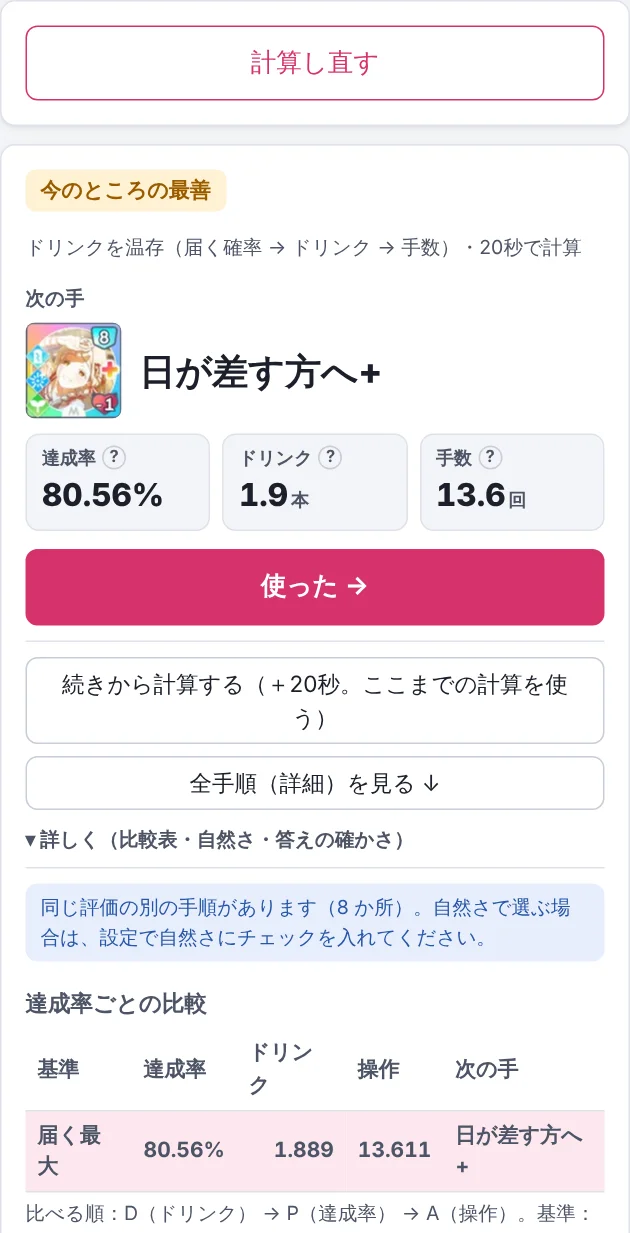
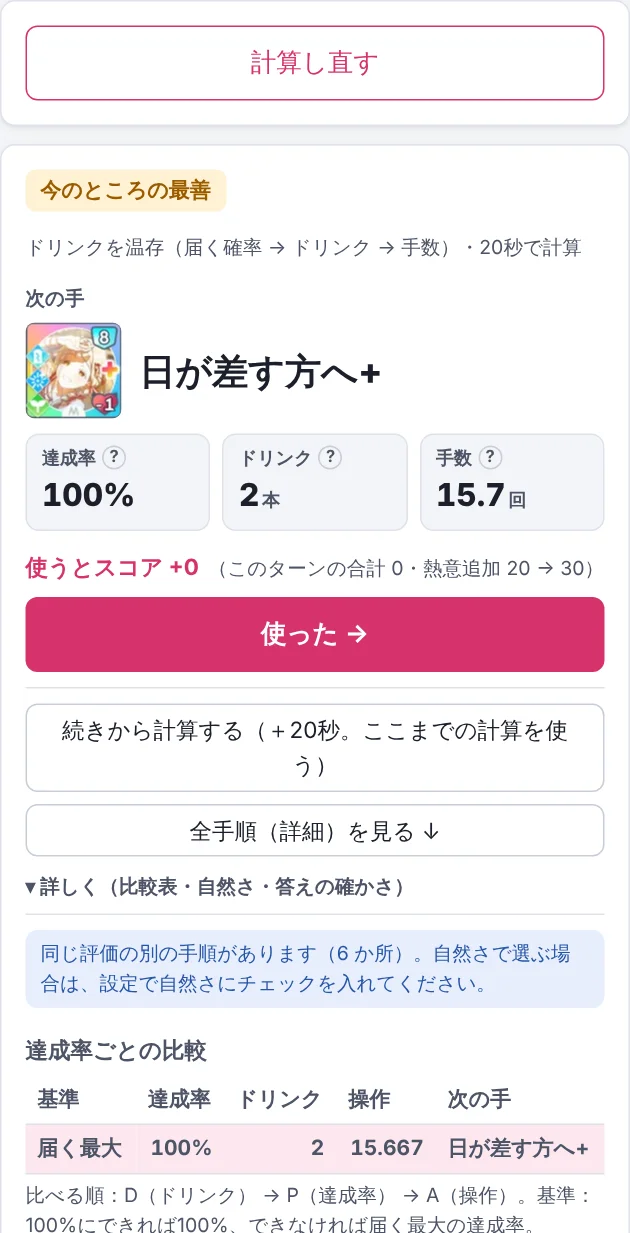
Solitaire Lab 1.14.1

diff --git a/js/answer.js b/js/answer.js
@@ -48,6 +48,20 @@ function mergeSub(tree, at, sub) {
   tree.nodes[at] = tree.nodes[off + sub.root];
 }
 let expanding = null;
+// その手で入るスコアと、熱意などの変わり方（ゲームの画面と照らし合わせるため。1.14.1、利用者の要望）。
+// 引く札で変わらないことが多いが、変わるときは幅で出す。手の前の値＝node.st、後の値＝分かれの先の st
+function gainOf(tree, node) {
+  const a = node.st; if (!a || !node.edges?.length) return null;
+  const kids = node.edges.map(e => tree.nodes[e.next]?.st).filter(Boolean); if (!kids.length) return null;
+  const ds = kids.map(b => b.score - a.score), lo = Math.min(...ds), hi = Math.max(...ds);
+  const sc = lo === hi ? `+${fmt(lo)}` : `+${fmt(lo)}〜+${fmt(hi)}`;
+  const tot = kids.map(b => b.score), tlo = Math.min(...tot), thi = Math.max(...tot);
+  const parts = [];
+  const same = f => kids.every(b => f(b) === f(kids[0]));
+  if (same(b => b.heat) && kids[0].heat !== a.heat) parts.push(`熱意 ${fmt(a.heat)} → ${fmt(kids[0].heat)}`);
+  if (same(b => b.extra) && kids[0].extra !== a.extra) parts.push(`熱意追加 ${fmt(a.extra)} → ${fmt(kids[0].extra)}`);
+  return {text: `使うとスコア ${sc}`, sub: `（このターンの合計 ${tlo === thi ? fmt(tlo) : fmt(tlo) + '〜' + fmt(thi)}${parts.length ? '・' + parts.join('・') : ''}）`, short: `${sc}点`};
+}
 
 export function renderAnswer(root, rerender) {
   clearInterval(timer);
@@ -157,13 +171,15 @@ function resultView(R, rerender, {checkList} = {}) {
       if (steps.length) add(h('div.lbl', '次の手'), h('div.nmain', {}, node.icon ? pic(node.icon.kind, node.icon.id, node.act, 64) : null, h('div.ntext', node.act)),
         h('div.kpis', {}, kpi('この先の達成率', pct(node.p))));
       if (node.sameEval > 1) add(h('p.hint', `この局面では、同じ評価の手が ${node.sameEval} 通りあります。`));
-      add(h('button.big.pri.wide', {onclick: () => push({type: 'act', label: node.act})}, node.kind === 'endTurn' ? 'ターンを終えた →' : node.kind === 'drink' ? '飲んだ →' : '使った →'));
+      const g = gainOf(R.tree, node);
+      if (g) add(h('p.gainline', {}, h('b', g.text), g.sub && h('span', g.sub)));
+      add(h('button.big.pri.wide', {onclick: () => push({type: 'act', label: node.act, gain: g?.short || null})}, node.kind === 'endTurn' ? 'ターンを終えた →' : node.kind === 'drink' ? '飲んだ →' : '使った →'));
       // プレイの途中：ここまでの局面を、計算の入力にする（引いた札が決まったあとで計算し直すと速い）
       if (steps.length && R.setup && deck()?.id === R.deckId) add(h('button.wide.midbtn', {disabled: making, title: '今の手札・行動回数・熱意などのまま、局面の入力にします。目標点はここまでに入った点を引きます',
         onclick: () => makePhase(R, steps, rerender, true)}, making ? '作っています…' : 'ここから局面を作る（今の手札・行動回数のまま）'),
         makeErr && h('p.warnline', '作れませんでした：' + makeErr));
     }
-    if (steps.length) add(h('div.histline', {}, h('ol', steps.map(s => h('li', {class: s.type}, s.type === 'act' ? s.label.replace(/ を(使う|飲む)$/, '') : s.label))),
+    if (steps.length) add(h('div.histline', {}, h('ol', steps.map(s => h('li', {class: s.type}, s.type === 'act' ? s.label.replace(/ を(使う|飲む)$/, '') + (s.gain ? `（${s.gain}）` : '') : s.label))),
       h('div.row', {}, h('button.mini', {onclick: () => { steps.pop(); save(); rerender(); }}, '1つ戻す'), h('button.mini', {onclick: () => { S.play = {steps: []}; save(); rerender(); }}, '最初から'))));
   } else add(h('div.lbl', '次の手'), nextView(R, false), R.treeDropped && h('p.hint', '答えが大きいので、プレイの案内（使った → 引いた札）は保存していません。続けて案内を使うときは、計算し直してください。'));
 

diff --git a/manual/index.html b/manual/index.html
@@ -51,7 +51,7 @@
 <section class="slide cover">
   <h1>Solitaire Lab 詳細マニュアル</h1>
   <div class="sub">学園アイドルマスターの「ソリティア」で、<br>どの順番で札を使えば目標点に届きやすいかを教えてくれるツールです。</div>
-  <div class="ver">版 1.14.0 ・ ← → キー、または画面の左右を押してページをめくります</div>
+  <div class="ver">版 1.14.1 ・ ← → キー、または画面の左右を押してページをめくります</div>
 </section>
 
 <section class="slide">
@@ -256,6 +256,7 @@
   <h2><span class="no">15</span>ゲームを進めながら使う</h2>
   <div class="body"><div class="txt">
     <ol>
+      <li>次の手の下に「<b>使うとスコア +○</b>（このターンの合計・熱意の変わり方）」が出ます。ゲームの画面の点と見比べると、計算が合っているか確かめられます。</li>
       <li>ゲームで、表示された札を使います。</li>
       <li>「<b>使った</b>」を押します（ドリンクは「飲んだ」）。</li>
       <li>札を引いたときは「何を引きましたか？」と表示されます。1枚引いたときは、ゲームの手札と同じものを選びます（新しく来た札には色の枠）。2枚以上引いて組み合わせが多いときは、引いた札を1枚ずつ選びます（順は関係ありません）。</li>

diff --git a/style.css b/style.css
@@ -324,3 +324,4 @@ dialog.restore h3 { margin: 0 0 6px; }
 .restoreta { width: 100%; box-sizing: border-box; font: 12px/1.4 ui-monospace, monospace; margin: 6px 0; }
 dialog.restore .row { gap: 8px; justify-content: flex-end; }
 .tipbox { position: fixed; z-index: 1000; max-width: 340px; background: var(--ink); color: var(--panel); font-size: 13px; line-height: 1.5; padding: 6px 10px; border-radius: 8px; box-shadow: var(--shadow); pointer-events: none; white-space: pre-wrap; }
+.gainline { margin: 4px 0 8px; font-size: 15px; } .gainline b { color: var(--acc); margin-right: 6px; } .gainline span { color: var(--sub); font-size: 13px; }

diff --git a/manual/summary.html b/manual/summary.html
@@ -52,7 +52,7 @@
 <section class="slide cover">
   <h1>Solitaire Lab</h1>
   <div class="sub">学園アイドルマスターの「ソリティア」で、<br>どの順番で札を使えば目標点に届きやすいかを教えてくれるツールです。</div>
-  <div class="ver">概要 ・ 版 1.14.0 ・ くわしい使い方は「詳細マニュアル」をご覧ください</div>
+  <div class="ver">概要 ・ 版 1.14.1 ・ くわしい使い方は「詳細マニュアル」をご覧ください</div>
 </section>
 
 <section class="slide">
